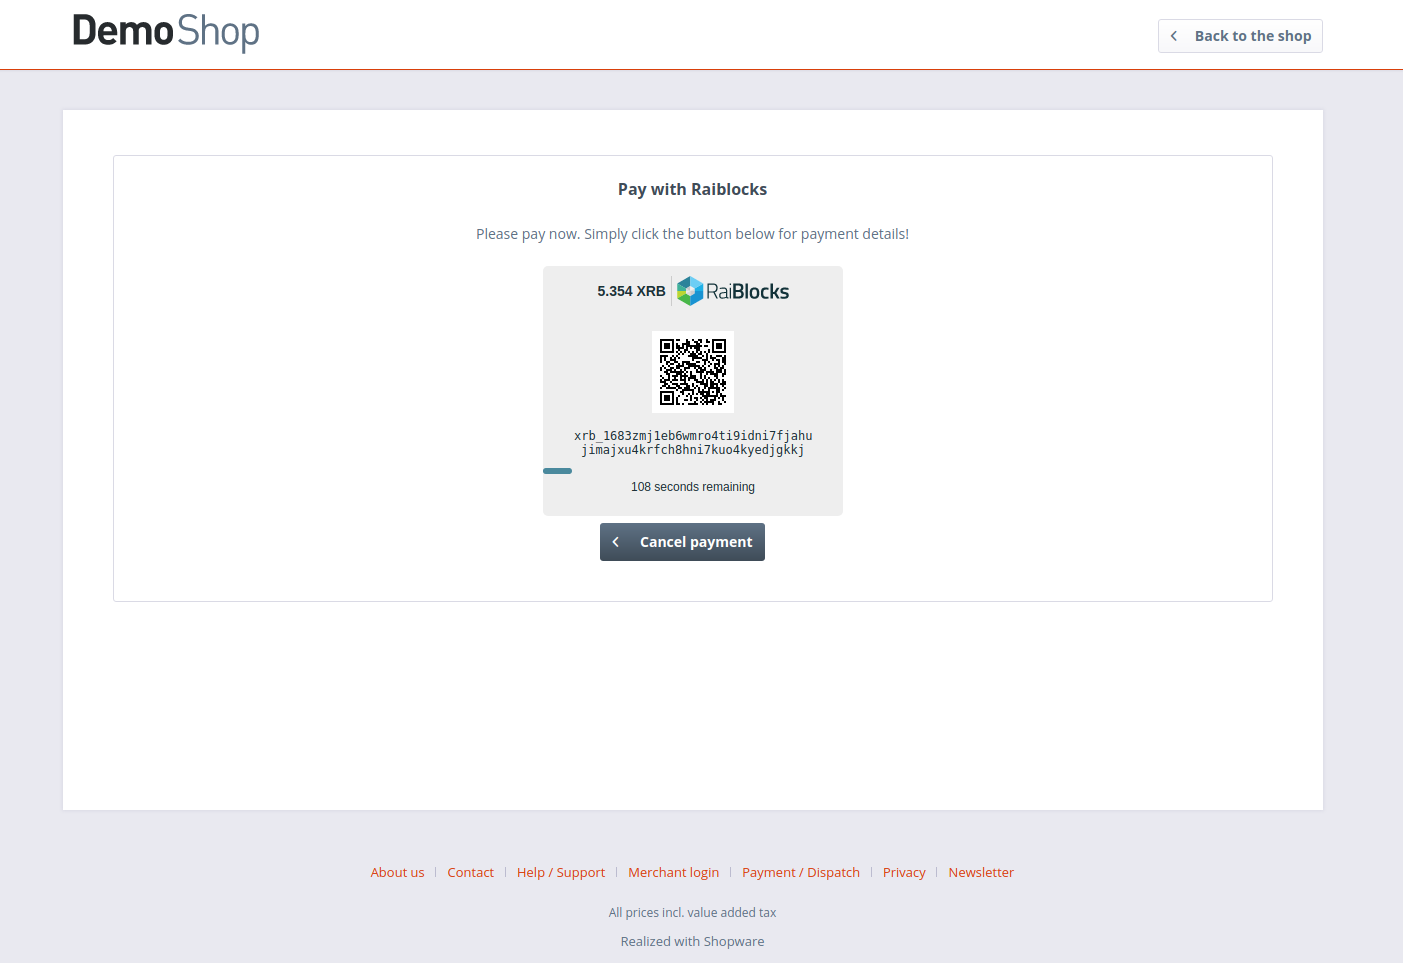
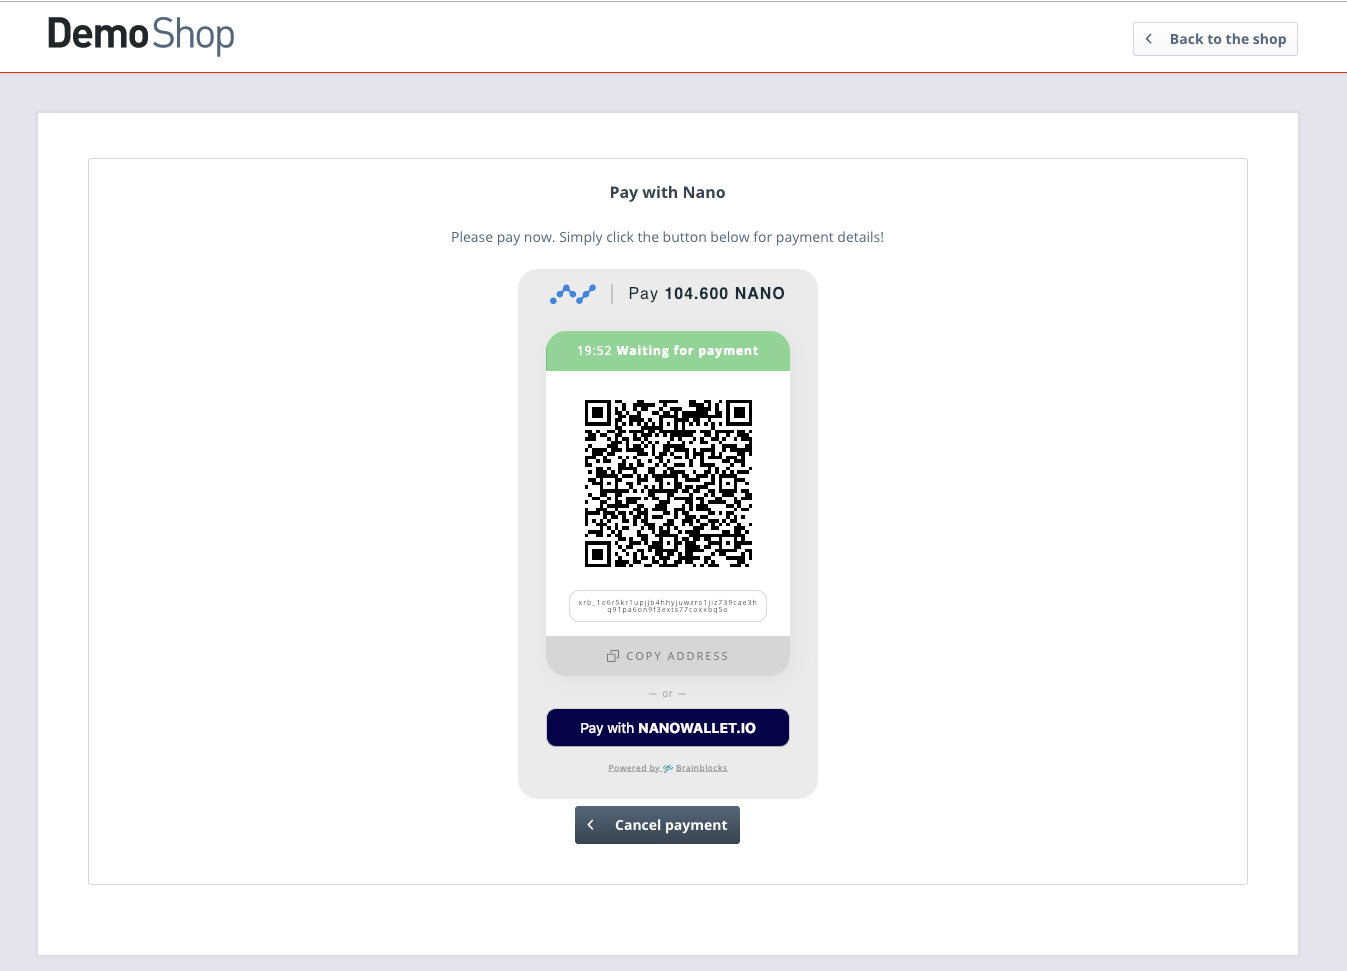
Rename Raiblocks to Nano

diff --git a/Controllers/Frontend/NanoPayment.php b/Controllers/Frontend/NanoPayment.php
@@ -1,8 +1,8 @@
 <?php
 
-class Shopware_Controllers_Frontend_RaiblocksPayment extends Shopware_Controllers_Frontend_Payment
+class Shopware_Controllers_Frontend_NanoPayment extends Shopware_Controllers_Frontend_Payment
 {
-    const RAIBLOCKS_PAYMENT_NAME = 'raiblocks_payment';
+    const NANO_PAYMENT_NAME = 'nano_payment';
     const PAYMENT_STATUS_PAID = 12;
 
     /**
@@ -11,7 +11,7 @@ class Shopware_Controllers_Frontend_RaiblocksPayment extends Shopware_Controller
     public function preDispatch()
     {
         /** @var \Shopware\Components\Plugin $plugin */
-        $plugin = $this->get('kernel')->getPlugins()['LdRaiblocksIntegration'];
+        $plugin = $this->get('kernel')->getPlugins()['LdNanoIntegration'];
         $this->get('template')->addTemplateDir($plugin->getPath() . '/Resources/views/');
     }
 
@@ -20,7 +20,7 @@ class Shopware_Controllers_Frontend_RaiblocksPayment extends Shopware_Controller
      */
     public function indexAction()
     {
-        if ($this->getPaymentShortName() !== self::RAIBLOCKS_PAYMENT_NAME) {
+        if ($this->getPaymentShortName() !== self::NANO_PAYMENT_NAME) {
             return $this->redirect(['controller' => 'checkout']);
         }
 
@@ -51,9 +51,9 @@ class Shopware_Controllers_Frontend_RaiblocksPayment extends Shopware_Controller
 
         $token = $this->Request()->getParam('token');
         $xrbDestination = $this->getXrbDestination();
-        $raiblocksPaymentService = $this->get('ld_raiblocks_integration.raiblocks_payment');
+        $nanoPaymentService = $this->get('ld_nano_integration.nano_payment');
         // Verify brainblocks token via brainblocks api
-        $response = $raiblocksPaymentService->verifyPayment($basket, $token, $xrbDestination);
+        $response = $nanoPaymentService->verifyPayment($basket, $token, $xrbDestination);
 
         if (!$response) {
             return $this->redirectToConfrim();
@@ -62,7 +62,7 @@ class Shopware_Controllers_Frontend_RaiblocksPayment extends Shopware_Controller
         $transactionId = substr($response->getToken(), 0, 254);
         // Save order with brainblocks token
         $orderNo = $this->saveOrder($transactionId, $transactionId, self::PAYMENT_STATUS_PAID);
-        $raiblocksPaymentService->saveBrainblocksToken($orderNo, $token);
+        $nanoPaymentService->saveBrainblocksToken($orderNo, $token);
         return $this->redirect(['controller' => 'checkout', 'action' => 'finish']);
     }
 
@@ -101,7 +101,7 @@ class Shopware_Controllers_Frontend_RaiblocksPayment extends Shopware_Controller
         }
 
         $config = $this->container->get('shopware.plugin.config_reader')
-            ->getByPluginName('LdRaiblocksIntegration', $shop);
+            ->getByPluginName('LdNanoIntegration', $shop);
 
         return $config['xrb_destination'];
     }

diff --git a/LdNanoIntegration.php b/LdNanoIntegration.php
@@ -1,0 +1,90 @@
+<?php
+namespace LdNanoIntegration;
+
+use Shopware\Components\Plugin;
+use Shopware\Components\Plugin\Context\InstallContext;
+use Shopware\Components\Plugin\Context\UninstallContext;
+use Shopware\Components\Plugin\Context\ActivateContext;
+use Shopware\Components\Plugin\Context\DeactivateContext;
+
+class LdNanoIntegration extends Plugin
+{
+    /**
+     * @param InstallContext $context
+     */
+    public function install(InstallContext $context)
+    {
+        $this->addPayment($context->getPlugin());
+        $this->addTokenAttribute();
+
+        $context->scheduleClearCache(InstallContext::CACHE_LIST_DEFAULT);
+    }
+
+    private function addTokenAttribute()
+    {
+        $service = $this->container->get('shopware_attribute.crud_service');
+        $service->update('s_order_attributes', 'brainblocks_token', 'text', [
+            'displayInBackend' => true,
+            'label' => 'Brainblocks Token'
+        ]);
+    }
+
+    private function addPayment(\Shopware\Models\Plugin\Plugin $plugin)
+    {
+        /** @var \Shopware\Components\Plugin\PaymentInstaller $installer */
+        $installer = $this->container->get('shopware.plugin_payment_installer');
+
+        $options = [
+            'name' => 'nano_payment',
+            'description' => 'Pay with Nano',
+            'action' => 'NanoPayment',
+            'active' => 0,
+            'position' => 0,
+            'additionalDescription' =>
+              '<div id="payment_desc">'
+                . '  Pay with Nano (using brainblocks.io)'
+              . '</div>'
+        ];
+        $installer->createOrUpdate($plugin, $options);
+    }
+
+    /**
+     * @param UninstallContext $context
+     */
+    public function uninstall(UninstallContext $context)
+    {
+        $this->setPaymentActiveFlag($context, false);
+        $context->scheduleClearCache(InstallContext::CACHE_LIST_DEFAULT);
+    }
+
+    /**
+     * @param DeactivateContext $context
+     */
+    public function deactivate(DeactivateContext $context)
+    {
+        $this->setPaymentActiveFlag($context, false);
+    }
+
+    /**
+     * @param ActivateContext $context
+     */
+    public function activate(ActivateContext $context)
+    {
+        $this->setPaymentActiveFlag($context, true);
+    }
+
+    /**
+     * @param InstallContext $context
+     * @param bool $active
+     */
+    private function setPaymentActiveFlag(InstallContext $context, $active)
+    {
+        $em = $this->container->get('models');
+        $payments = $context->getPlugin()->getPayments();
+        foreach ($payments as $payment) {
+            $payment->setActive($active);
+        }
+
+        $em->flush();
+    }
+}

diff --git a/Components/NanoPayment/NanoPaymentService.php b/Components/NanoPayment/NanoPaymentService.php
@@ -1,20 +1,20 @@
 <?php
-namespace LdRaiblocksIntegration\Components\RaiblocksPayment;
+namespace LdNanoIntegration\Components\NanoPayment;
 
 use Shopware\Components\Model\ModelManager;
 use Shopware\Models\Order\Order;
 
-class RaiblocksPaymentService
+class NanoPaymentService
 {
 
-    /** @var  BrainblocksService $brainblocksService */
+    /** @var BrainblocksService $brainblocksService */
     private $brainblocksService;
 
     /** @var  ModelManager $em */
     private $em;
 
     /**
-     * RaiblocksPaymentService constructor.
+     * NanoPaymentService constructor.
      * @param BrainblocksService $brainblocksService
      * @param ModelManager $em
      */

diff --git a/Components/NanoPayment/BrainblocksService.php b/Components/NanoPayment/BrainblocksService.php
@@ -1,7 +1,7 @@
 <?php
-namespace LdRaiblocksIntegration\Components\RaiblocksPayment;
+namespace LdNanoIntegration\Components\NanoPayment;
 
-use LdRaiblocksIntegration\Components\RaiblocksPayment\Response\BrainblocksResponse;
+use LdNanoIntegration\Components\NanoPayment\Response\BrainblocksResponse;
 use Shopware\Components\HttpClient\GuzzleFactory;
 
 class BrainblocksService
@@ -10,7 +10,7 @@ class BrainblocksService
     private $guzzleFactory;
 
     /**
-     * RaiblocksPaymentService constructor.
+     * NanoPaymentService constructor.
      * @param GuzzleFactory $guzzleFactory
      */
     public function __construct(GuzzleFactory $guzzleFactory)

diff --git a/Components/NanoPayment/Response/BrainblocksResponse.php b/Components/NanoPayment/Response/BrainblocksResponse.php
@@ -1,5 +1,5 @@
 <?php
-namespace LdRaiblocksIntegration\Components\RaiblocksPayment\Response;
+namespace LdNanoIntegration\Components\NanoPayment\Response;
 
 class BrainblocksResponse
 {

diff --git a/README.md b/README.md
@@ -1,9 +1,9 @@
-# LdRaiblocksIntegration
+# LdNanoIntegration
 
-This plugin is now maintained under the official [Brainblocks Github account](https://github.com/brainblocks/LdRaiblocksIntegration)
+This plugin is now maintained under the official [Brainblocks Github account](https://github.com/brainblocks/LdNanoIntegration)
 
 ## Description
-Shopware plugin for accepting [Raiblocks](https://raiblocks.net/) payments via [BrainBlocks](https://brainblocks.io).
+Shopware plugin for accepting [Nano](https://nano.org/) payments via [BrainBlocks](https://brainblocks.io).
 
 ## Screenshots
 
@@ -12,11 +12,11 @@ Shopware plugin for accepting [Raiblocks](https://raiblocks.net/) payments via [
 
 ## Setup
 
-1. Download Plugin [here](https://github.com/LucaDe/LdRaiblocksIntegration/releases/download/1.0/LdRaiblocksIntegration.zip).
+1. Download Plugin [here](https://github.com/LucaDe/LdNanoIntegration/releases/download/1.0/LdNanoIntegration.zip).
 2. Upload the zip file via your plugin manager in your shopware installation
 3. Install and activate the plugin 
 3. Set your xrb destination address in the plugin's configuration
-4. Enable the new payment option 'Pay with Raiblocks' in the 'Payment methods' module.
+4. Enable the new payment option 'Pay with Nano' in the 'Payment methods' module.
    ![choose_payments](./payments.png)
 5. That's it! You can configure the default texts via the 'Payment methods' and 'Snippets' module. 
  
